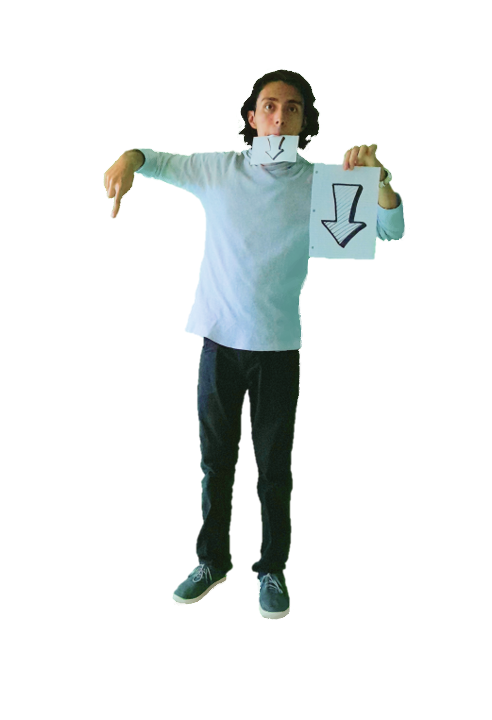
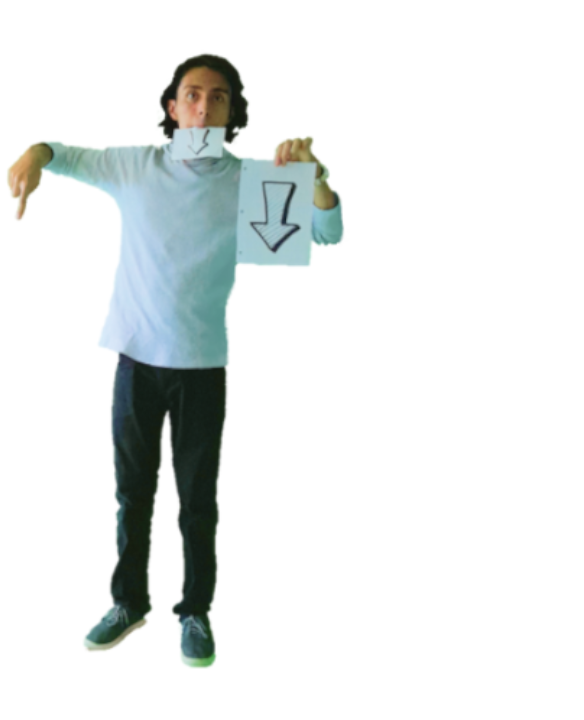
Fixed some styling and shit

Changed region(s): [[0.0, 0.0611, 0.8232, 0.9472]]

diff --git a/src/styles/main-styles.css b/src/styles/main-styles.css
@@ -29,6 +29,7 @@ body {
   flex-direction: column;
   justify-content: start;
   align-items: end;
+  overflow-x: hidden;
 }
 body::-webkit-scrollbar {
   width: 0.4rem;
@@ -271,7 +272,7 @@ a {
 @media (min-width: 1025px) and (max-width: 4000px) {
   #main-page {
     flex-direction: row;
-    justify-content: center;
+    justify-content: flex-end;
     align-items: center;
   }
 }
@@ -286,6 +287,7 @@ a {
   justify-content: space-around;
   align-items: end;
   height: clamp(200px, 40%, 360px);
+  z-index: 5;
 }
 @media (min-width: 0px) and (max-width: 1024px) {
   .main-content-main-page {
@@ -356,6 +358,7 @@ a {
   margin-right: 3%;
   display: flex;
   justify-content: space-between;
+  z-index: 10;
 }
 @media (min-width: 0px) and (max-width: 1024px) {
   .main-content-main-page .button-wrapper {
@@ -387,14 +390,16 @@ a {
 @media (min-width: 1025px) and (max-width: 4000px) {
   #title-animation {
     order: 2;
-    width: clamp(160px, 20%, 300px);
-    aspect-ratio: 19/34;
+    height: 60%;
+    aspect-ratio: 30/37;
+    transition: opacity 800ms ease-in, margin-left 500ms ease-in;
+    z-index: 5;
+    position: relative;
   }
 }
 #title-animation canvas {
   width: 100%;
   height: 100%;
-  transition: opacity 800ms ease-in;
 }
 
 #about-me {
@@ -866,26 +871,6 @@ a {
     align-items: center;
   }
 }
-#tutdl canvas {
-  height: 95%;
-  align-self: flex-end;
-  transition: opacity 400ms ease-in;
-}
-@media (min-width: 0px) and (max-width: 1024px) {
-  #tutdl canvas {
-    position: absolute;
-    aspect-ratio: 2/3;
-    height: 90%;
-    left: 58%;
-    align-self: center;
-    justify-self: center;
-  }
-}
-@media (min-width: 1025px) and (max-width: 4000px) {
-  #tutdl canvas {
-    aspect-ratio: 57/50;
-  }
-}
 #tutdl .project-description {
   display: flex;
   flex-direction: column;
@@ -973,6 +958,31 @@ a {
     margin-top: 3vh;
     margin-right: 8%;
   }
+}
+
+#tutdl-animation {
+  height: 95%;
+  align-self: flex-end;
+  transition: opacity 400ms ease-in;
+}
+@media (min-width: 0px) and (max-width: 1024px) {
+  #tutdl-animation {
+    position: absolute;
+    aspect-ratio: 2/3;
+    height: 90%;
+    left: 58%;
+    align-self: center;
+    justify-self: center;
+  }
+}
+@media (min-width: 1025px) and (max-width: 4000px) {
+  #tutdl-animation {
+    aspect-ratio: 57/50;
+  }
+}
+#tutdl-animation canvas {
+  width: 100%;
+  height: 100%;
 }
 
 .main-content-contact {
@@ -1138,6 +1148,7 @@ a {
 #contact-animation {
   height: 100%;
   aspect-ratio: 6/7;
+  transition: opacity 800ms ease-in;
 }
 @media (min-width: 0px) and (max-width: 1024px) {
   #contact-animation {
@@ -1147,7 +1158,6 @@ a {
 #contact-animation canvas {
   width: 100%;
   height: 100%;
-  transition: opacity 800ms ease-in;
 }
 
 #contact {

diff --git a/src/js/images/image-info.js b/src/js/images/image-info.js
@@ -12,12 +12,24 @@ const images = {
       startSession: {
         "vertical": {
           "dark-theme": [
-            {src: "main-page/dark-theme/saludo-1.png"},
-            {src: "main-page/dark-theme/saludo-3.png"}
+            {
+              src: "main-page/dark-theme/saludo-1.png",
+              style: "transform: translateX(17%); margin-left: -10%"
+            },
+            {
+              src: "main-page/dark-theme/saludo-3.png",
+              style: "transform: translateX(13%); margin-left: -9%"
+            }
           ],
           "light-theme": [
-            {src: "main-page/light-theme/saludo-1.png"},
-            {src: "main-page/light-theme/saludo-2.png"}
+            {
+              src: "main-page/light-theme/saludo-1.png",
+              style: "margin-left: -8%; transform: translate(33%, 3%)"
+            },
+            {
+              src: "main-page/light-theme/saludo-2.png",
+              style: "margin-left: -12%; transform: translateX(-36%); z-index: 2"
+            }
           ]
         },
         "horizontal": {
@@ -32,13 +44,25 @@ const images = {
       currentSession: {
         "vertical": {
           "dark-theme": [
-            {src: "main-page/dark-theme/portatil-1.png"},
-            {src: "main-page/dark-theme/baje-1.png"},
-            {src: "main-page/dark-theme/baje-2.png"}
+            {
+              src: "main-page/dark-theme/portatil-1.png",
+              style: "margin-left: -6%"
+            },
+            {
+              src: "main-page/dark-theme/baje-1.png",
+              style: "transform: translate(15%, -7%); position: relative; margin-left: -13%"
+            },
+            {
+              src: "main-page/dark-theme/baje-2.png",
+              style: "margin-left: -10%"
+
+            }
           ],
           "light-theme": [
-            {src: "main-page/light-theme/portatil-2.png"},
-            {src: "main-page/light-theme/baje-1.png"}
+            {
+              src: "main-page/light-theme/baje-1.png",
+              style: "margin-left: -11%; transform: translate(-112%, -6%); z-index: 2"
+            }
           ]
         },
         "horizontal": {

diff --git a/src/index.html b/src/index.html
@@ -105,8 +105,8 @@
   <main id="main-section">
 
     <section id="main-page" class="single-section">
-      <div id="title-animation">
-        <canvas id="mainPageImage" class="is-animation-loading"></canvas>
+      <div id="title-animation" class="is-animation-loading">
+        <canvas id="mainPageImage"></canvas>
       </div>
 
       <div class="main-content-main-page">
@@ -195,7 +195,9 @@
       <span class="my-portfolio-title" data-lang="my-portfolio-title">Some of my creations...</span>
       <div class="main-content-my-portfolio">
         <div class="a-project" id="tutdl">
-          <canvas id="tutdlImage"></canvas>
+          <div id="tutdl-animation">
+            <canvas id="tutdlImage"></canvas>
+          </div>
           <!-- <img src="../public/img/my-portfolio/tutdl-app-dark.png" alt="The Ultimate To-do list screenshot" id="tutdl-screenshot"> -->
           <div class="project-description">
             <!-- SVG: #tutdl-logo (my-portfolio/the-ultimate-to-do-list.svg) -->
@@ -236,8 +238,8 @@
               <button type="submit" class="emphasis-button" data-lang="contact-form-submitbutton">Let's talk</button>
             </div>
           </form>
-          <div id="contact-animation">
-            <canvas id="contactImage" class="is-animation-loading"></canvas>
+          <div id="contact-animation" class="is-animation-loading">
+            <canvas id="contactImage"></canvas>
           </div>
         </div>
       </div>

diff --git a/src/js/images/image-manager.js b/src/js/images/image-manager.js
@@ -72,6 +72,11 @@ class ImageManager {
     });
     image.file = await promise;
 
+    if (selectedImage["style"]) {
+      image.style = selectedImage["style"];
+    }
+    console.log(selectedImage["src"]);
+
     // Set up rescaling
     image.canvas.width = image.file.naturalWidth;
     image.canvas.height = image.file.naturalHeight;
@@ -113,15 +118,16 @@ class CanvasImage {
     this.name = name;
     this.type = type
     this.file = undefined;
+    this.style = "";
     this.canvas = document.getElementById(name);
     this.hasLoaded = false;
     this.orientation = this.setUpOrientation();
   }
   show() {
-    this.canvas.classList.remove("is-animation-loading");
+    this.canvas.parentElement.classList.remove("is-animation-loading");
   }
   hide() {
-    this.canvas.classList.add("is-animation-loading");
+    this.canvas.parentElement.classList.add("is-animation-loading");
   }
   setUpOrientation() {
     if (this.canvas.clientHeight > this.canvas.clientWidth) {
@@ -136,6 +142,7 @@ class CanvasImage {
     let canvas = this.canvas;
     let context = canvas.getContext("2d");
     let image = this.file;
+    canvas.parentElement.setAttribute("style", this.style);
     context.clearRect(0, 0, canvas.width, canvas.height);
     context.drawImage(image, 0, 0, canvas.width, canvas.height);
   }

diff --git a/src/styles/module/main-section/my-portfolio/the-ultimate-to-do-list.sass b/src/styles/module/main-section/my-portfolio/the-ultimate-to-do-list.sass
@@ -13,23 +13,6 @@
     justify-content: center
     align-items: center
 
-  canvas
-    height: 95%
-    align-self: flex-end
-    transition: opacity 400ms ease-in
-
-    @include screen-width($phone...)
-      position: absolute
-      aspect-ratio: 2/3
-      height: 90%
-      left: 58%
-      align-self: center
-      justify-self: center
-
-
-    @include screen-width($desktop...)
-      aspect-ratio: 57/50
-
   .project-description
     display: flex
     flex-direction: column
@@ -103,3 +86,23 @@
         align-self: flex-end
         margin-top: 3vh
         margin-right: 8%
+
+#tutdl-animation
+  height: 95%
+  align-self: flex-end
+  transition: opacity 400ms ease-in
+
+  @include screen-width($phone...)
+    position: absolute
+    aspect-ratio: 2/3
+    height: 90%
+    left: 58%
+    align-self: center
+    justify-self: center
+
+  @include screen-width($desktop...)
+    aspect-ratio: 57/50
+
+  canvas
+    width: 100%
+    height: 100%

diff --git a/src/styles/module/main-section/main-page/title-animation.sass b/src/styles/module/main-section/main-page/title-animation.sass
@@ -8,11 +8,14 @@
 
   @include screen-width($desktop...)
     order: 2
-    width: clamp(160px, 20%, 300px)
-    aspect-ratio: 19/34
+    // width: clamp(160px, %, 300px)
+    height: 60%
+    aspect-ratio: 30/37
+    transition: opacity 800ms ease-in, margin-left 500ms ease-in
+    z-index: 5
+    position: relative
 
   canvas
     width: 100%
     height: 100%
-    transition: opacity 800ms ease-in
-    // border: 1px solid red
+    // border: 2px solid red

diff --git a/src/styles/module/main-section/main-page/main-content.sass b/src/styles/module/main-section/main-page/main-content.sass
@@ -5,6 +5,7 @@
   justify-content: space-around
   align-items: end
   height: clamp(200px, 40%, 360px)
+  z-index: 5
 
   // border: 2px dashed yellow
 
@@ -70,6 +71,7 @@
     margin-right: 3%
     display: flex
     justify-content: space-between
+    z-index: 10
 
     // border: 2px dashed lightgreen
 

diff --git a/src/styles/module/main-section/contact/main-content.sass b/src/styles/module/main-section/contact/main-content.sass
@@ -134,11 +134,11 @@
 #contact-animation
   height: 100%
   aspect-ratio: 6/7
+  transition: opacity 800ms ease-in
   @include screen-width($phone...)
     display: none
 
   canvas
     width: 100%
     height: 100%
-    transition: opacity 800ms ease-in
     // border: 1px solid red

diff --git a/src/js/dom-element-handler/progressbar-handler.js b/src/js/dom-element-handler/progressbar-handler.js
@@ -33,7 +33,7 @@ export default class Progressbar {
 
     if (this.numeric) {
       let span = document.querySelector(`#${this.id} span`);
-      span.innerText = `${newProgress * 100}%`;
+      span.innerText = `${Math.floor(newProgress * 100)}%`;
     }
   }
 

diff --git a/src/styles/module/main-section/main-page/main-page.sass b/src/styles/module/main-section/main-page/main-page.sass
@@ -8,7 +8,7 @@
 
   @include screen-width($desktop...)
     flex-direction: row
-    justify-content: center
+    justify-content: flex-end
     align-items: center
 
   .scrolling-arrows

diff --git a/src/styles/base/variables-mixins-body.sass b/src/styles/base/variables-mixins-body.sass
@@ -33,6 +33,7 @@ body
   flex-direction: column
   justify-content: start
   align-items: end
+  overflow-x: hidden
 
   &::-webkit-scrollbar
     // display: none
